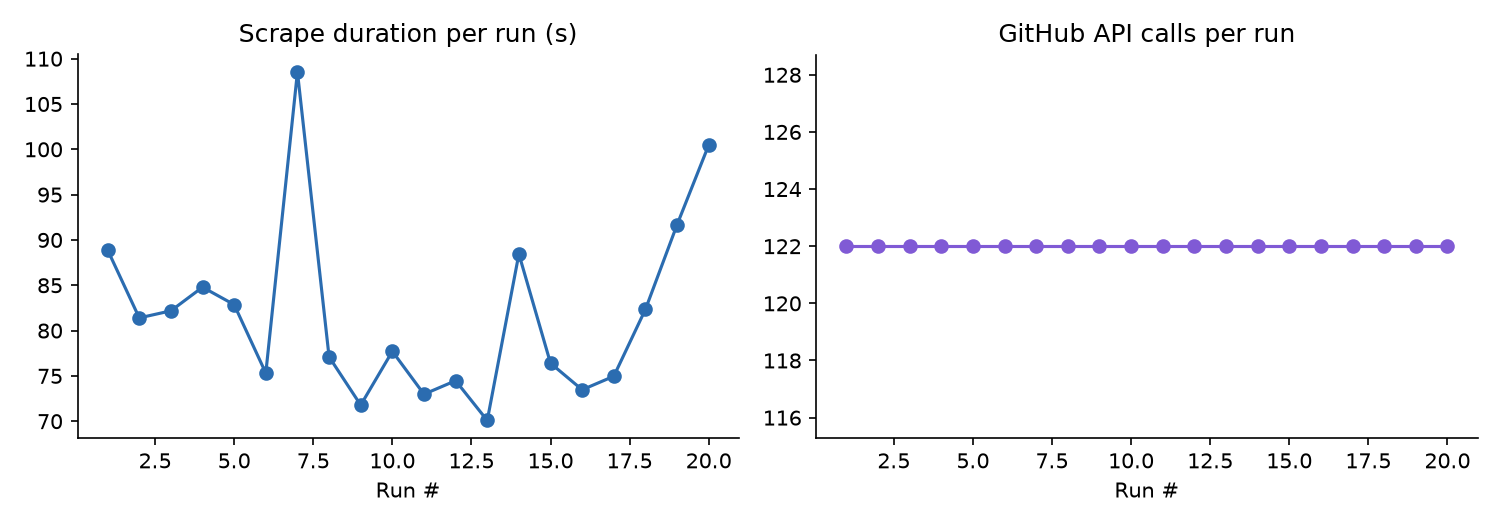
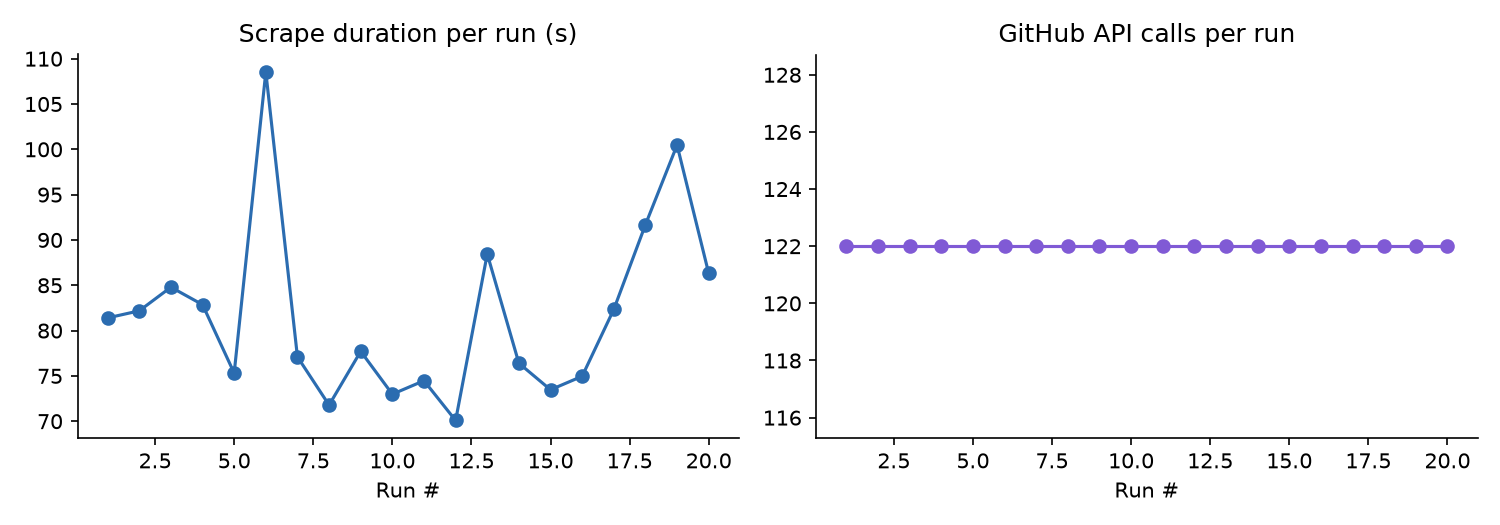
Weekly issue tracker refresh

diff --git a/README.md b/README.md
@@ -81,9 +81,9 @@ See [CONTRIBUTING.md](CONTRIBUTING.md) for the full contributor workflow — inc
 
 <!-- TRACKER:START -->
 
-_Last updated: 2026-11-10 03:00 UTC_
+_Last updated: 2026-11-10 10:52 UTC_
 
-_Tracking **18** upstream repos, **369** relevant open issues._
+_Tracking **18** upstream repos, **370** relevant open issues._
 
 ![Open issues by repo and score](assets/issues_by_repo.png)
 
@@ -137,13 +137,13 @@ _Tracking **18** upstream repos, **369** relevant open issues._
 
 | Score | Issue | Labels | Comments | Updated |
 |---|---|---|---|---|
+| ★★☆☆☆ | [#87893](https://github.com/ansible/ansible/issues/87893) user: the documented locked-password value `'*'` is registered as a secret and masks every `*` in the output | module, needs_triage, bug, has_pr, affects_2.22 | 1 | 2026-11-10 |
+| ★★☆☆☆ | [#87812](https://github.com/ansible/ansible/issues/87812) Ctrl-C is ignored on a new forked worker, the run fails with response "A worker was found in a dead state", continues, or hangs | bug, has_pr, verified, affects_2.23 | 1 | 2026-11-10 |
 | ★★☆☆☆ | [#87880](https://github.com/ansible/ansible/issues/87880) `ansible-test sanity --docker --test pylint` crashes on community.general | bug | 4 | 2026-11-09 |
 | ★★☆☆☆ | [#74237](https://github.com/ansible/ansible/issues/74237) wait_for_connection ignores short timeouts | module, bug, has_pr, P3, verified, affects_2.10 | 5 | 2026-11-09 |
 | ★★☆☆☆ | [#87894](https://github.com/ansible/ansible/issues/87894) `environment` values end up in the target's sudo log with `become` | needs_triage, bug | 1 | 2026-11-09 |
 | ★★☆☆☆ | [#74918](https://github.com/ansible/ansible/issues/74918) Ansible fails to recursively change attributes when directory contains symlinks | module, bug, P3, needs_verified, affects_2.11, affects_2.12 | 2 | 2026-11-07 |
-| ★★☆☆☆ | [#87893](https://github.com/ansible/ansible/issues/87893) user: the documented locked-password value `'*'` is registered as a secret and masks every `*` in the output | module, needs_triage, bug, affects_2.22 | 1 | 2026-11-07 |
 | ★★☆☆☆ | [#87836](https://github.com/ansible/ansible/issues/87836) `password_hash` overruns `struct crypt_data` with glibc's libcrypt, crashing the worker | needs_triage, bug, has_pr | 4 | 2026-11-06 |
-| ★★☆☆☆ | [#87815](https://github.com/ansible/ansible/issues/87815) Deprecate use of passlib for 2.23 | P2, bug, has_pr | 1 | 2026-11-05 |
 | ★☆☆☆☆ | [#86233](https://github.com/ansible/ansible/issues/86233) 'ansible-galaxy collection download' always downloads | feature, P3 | 5 | 2026-11-06 |
 
 ### [aws-observability/aws-otel-collector](https://github.com/aws-observability/aws-otel-collector)
@@ -176,7 +176,7 @@ _Tracking **18** upstream repos, **369** relevant open issues._
 
 | Score | Issue | Labels | Comments | Updated |
 |---|---|---|---|---|
-| ★★☆☆☆ | [#414](https://github.com/grafana/google-bigquery-datasource/issues/414) Dependency Dashboard | — | 0 | 2026-11-09 |
+| ★★☆☆☆ | [#414](https://github.com/grafana/google-bigquery-datasource/issues/414) Dependency Dashboard | — | 0 | 2026-11-10 |
 | ★★☆☆☆ | [#578](https://github.com/grafana/google-bigquery-datasource/issues/578) Feature request: label BigQuery jobs with the Grafana user | — | 0 | 2026-10-07 |
 | ★★☆☆☆ | [#575](https://github.com/grafana/google-bigquery-datasource/issues/575) [bigquery] Re-enable e2e health check test on cloud | — | 0 | 2026-10-02 |
 | ★★☆☆☆ | [#552](https://github.com/grafana/google-bigquery-datasource/issues/552) Incorrect interpolation of single quote for multi-value variable | — | 0 | 2026-08-04 |
@@ -229,13 +229,14 @@ _Tracking **18** upstream repos, **369** relevant open issues._
 | ★★☆☆☆ | [#3711](https://github.com/observIQ/bindplane-otel-collector/issues/3711) bindplane-agent_v2 source: self-metrics fail to export to Google Cloud with duplicate server_port / url_scheme labels | — | 0 | 2026-10-21 |
 | ★★☆☆☆ | [#3674](https://github.com/observIQ/bindplane-otel-collector/issues/3674) RPM package fails to install with --prefix: package is not relocatable | — | 0 | 2026-10-01 |
 | ★★☆☆☆ | [#3596](https://github.com/observIQ/bindplane-otel-collector/issues/3596) How to handle process stuck in shutdown. | — | 0 | 2026-08-04 |
-| ★★☆☆☆ | [#2542](https://github.com/observIQ/bindplane-otel-collector/issues/2542) Add TCP Check receiver | — | 0 | 2025-08-23 |
+| ★☆☆☆☆ | [#3772](https://github.com/observIQ/bindplane-otel-collector/issues/3772) Mirror from DBDOT: ci(e2e): run e2e tests on main (#112) | dbdot-mirror-issue | 1 | 2026-11-10 |
 | ★☆☆☆☆ | [#2296](https://github.com/observIQ/bindplane-otel-collector/issues/2296) install_unix.sh breaks with status code 2 in non-interactive environments | — | 4 | 2026-03-04 |
 
 ### [open-telemetry/opentelemetry-collector-contrib](https://github.com/open-telemetry/opentelemetry-collector-contrib)
 
 | Score | Issue | Labels | Comments | Updated |
 |---|---|---|---|---|
+| ★★★★☆ | [#52914](https://github.com/open-telemetry/opentelemetry-collector-contrib/issues/52914) [extension/avro_log_encoding] Unmaintained component | help wanted, unmaintained | 0 | 2026-11-10 |
 | ★★★★☆ | [#52509](https://github.com/open-telemetry/opentelemetry-collector-contrib/issues/52509) Use generated semantic conventions references instead of local ones | good first issue, priority:p2, processor/k8sattributes | 3 | 2026-11-06 |
 | ★★★★☆ | [#39333](https://github.com/open-telemetry/opentelemetry-collector-contrib/issues/39333) Add system.cpu.socket.id and system.cpu.core.id attributes | enhancement, good first issue, receiver/hostmetrics, never stale | 17 | 2026-11-02 |
 | ★★★★☆ | [#51845](https://github.com/open-telemetry/opentelemetry-collector-contrib/issues/51845) [receiver/kafka] Make the decompressed batch size limit configurable and recover from ErrDecompressTooLarge | good first issue, receiver/kafka | 6 | 2026-10-30 |
@@ -243,7 +244,6 @@ _Tracking **18** upstream repos, **369** relevant open issues._
 | ★★★★☆ | [#22095](https://github.com/open-telemetry/opentelemetry-collector-contrib/issues/22095) Migrate to latest semconv version and ensure we regularly update going forward | enhancement, good first issue, priority:p2, never stale, component-stability-phase-1 | 30 | 2026-10-24 |
 | ★★★★☆ | [#52039](https://github.com/open-telemetry/opentelemetry-collector-contrib/issues/52039) [internal/kafka] Deprecate `AWS_MSK_IAM_OAUTHBEARER` | good first issue, extension/sigv4auth, internal/kafka | 8 | 2026-10-14 |
 | ★★★★☆ | [#45700](https://github.com/open-telemetry/opentelemetry-collector-contrib/issues/45700) Support multiple collection intervals within a receiver | enhancement, help wanted, receiver/sqlserver, waiting-for-code-owners | 10 | 2026-10-14 |
-| ★★★★☆ | [#51982](https://github.com/open-telemetry/opentelemetry-collector-contrib/issues/51982) [receiver/k8sevents] watch stalls forever without logging: RetryWatcher retries every second and the observer never re-lists | bug, help wanted, receiver/k8sevents, internal/k8sinventory | 3 | 2026-10-13 |
 
 ### [prometheus/prometheus](https://github.com/prometheus/prometheus)
 
@@ -297,7 +297,7 @@ _Tracking **18** upstream repos, **369** relevant open issues._
 
 <!-- METRICS:START -->
 
-_Last run: 2026-11-10 02:59 UTC, took **100.5s**, **122** GitHub API calls, **4878/5000** rate limit remaining._
+_Last run: 2026-11-10 10:51 UTC, took **86.3s**, **122** GitHub API calls, **4878/5000** rate limit remaining._
 
 ![Scrape metrics trend](assets/metrics_trend.png)
 
